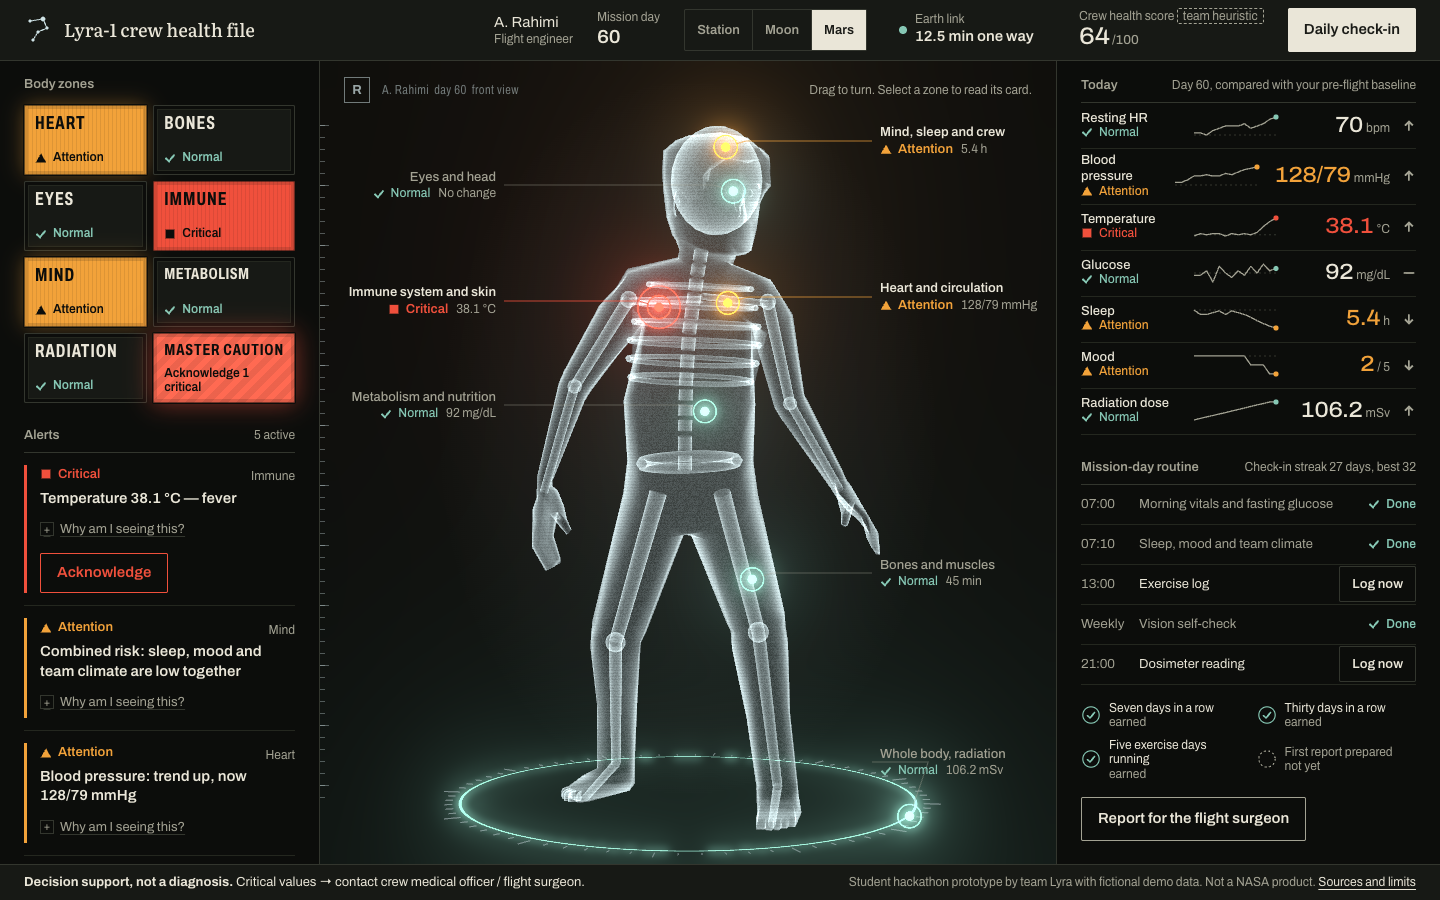
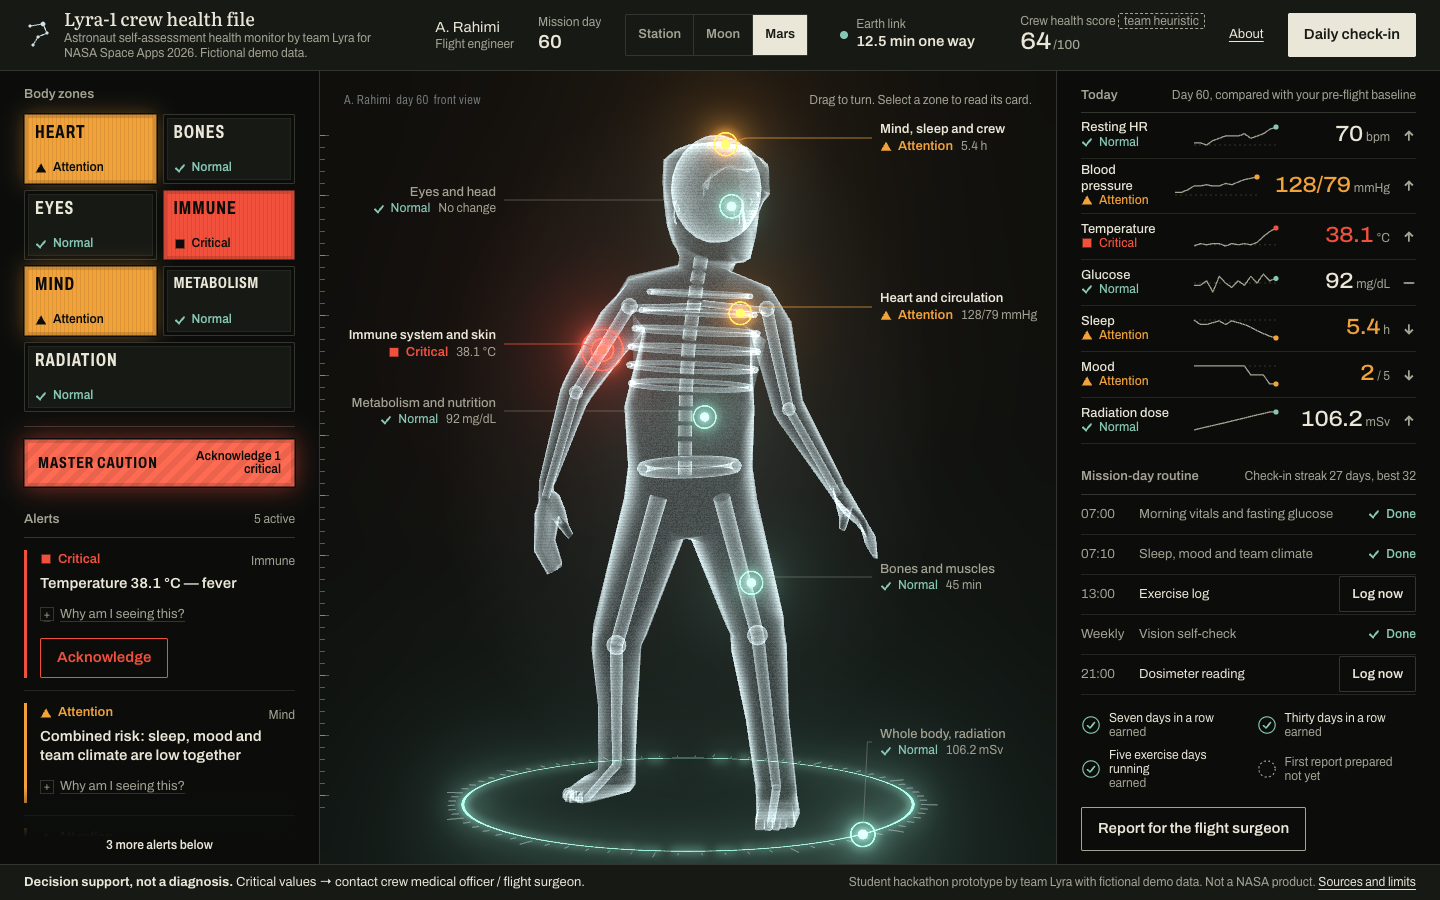
Polish round: anchors, context subtitle, scroll hints, Master Caution bar, env feedback, link preview

diff --git a/css/app.css b/css/app.css
@@ -59,6 +59,9 @@ small { font-size: var(--t-12); color: var(--ash); }
 .tb-file { display: flex; align-items: center; gap: var(--s-3); margin-right: auto; }
 .tb-mark { width: 28px; height: 28px; color: var(--film); flex: none; }
 .tb-file h1 { font: 500 var(--t-18)/1.2 var(--font-read); letter-spacing: -.005em; }
+.tb-sub { margin-top: 1px; font-size: var(--t-12); line-height: 1.3; color: var(--ash); max-width: 46ch; }
+.tb-about { font-size: var(--t-13); white-space: nowrap; }
+.tb-crew small, .tb-day small, .tb-score small { white-space: nowrap; }
 .tb-crew { line-height: 1.25; }
 .tb-day b { font-size: var(--t-18); font-stretch: 112%; }
 .env { display: flex; border: 1px solid var(--rule); border-radius: var(--radius); }
@@ -90,6 +93,12 @@ small { font-size: var(--t-12); color: var(--ash); }
 .alerts-head, .today-head { display: flex; align-items: baseline; justify-content: space-between; gap: var(--s-3); margin-top: var(--s-5); padding-bottom: var(--s-2); border-bottom: 1px solid var(--rule); }
 .today-head:first-child { margin-top: 0; }
 .count { font-size: var(--t-12); color: var(--ash); }
+
+.more { position: sticky; z-index: 2; bottom: 0; height: 0; pointer-events: none; opacity: 0; transition: opacity var(--d-hover) var(--ease-out); }
+.more.on { opacity: 1; }
+.more span { position: absolute; left: 0; right: 0; bottom: calc(-1 * var(--s-5)); display: flex; align-items: flex-end; justify-content: center; height: 76px; padding-bottom: 10px; font-size: var(--t-12); font-weight: 600; color: var(--bone); background: linear-gradient(rgba(12, 13, 11, 0), var(--lampblack) 64%); }
+.cue-body .more span { bottom: calc(-1 * var(--s-7)); color: var(--ink); background: linear-gradient(rgba(234, 230, 216, 0), var(--bone) 64%); }
+.booting .more { display: none; }
 
 /* annunciator lamps: dark cockpit — a lamp is lit only when it needs you */
 .lamps { display: grid; grid-template-columns: 1fr 1fr; gap: 6px; margin-top: var(--s-3); }
@@ -141,6 +150,11 @@ small { font-size: var(--t-12); color: var(--ash); }
 .master.lit[data-state="armed"]::after { box-shadow: 0 0 24px 0 rgba(240, 80, 60, .5); }
 .master.lit[data-state="acked"] { color: var(--alarm); box-shadow: inset 0 0 0 1px var(--alarm), inset 0 0 0 4px var(--lampblack), inset 0 0 0 5px var(--rule-soft); }
 .master[aria-disabled="true"] { cursor: default; }
+/* master caution is a control bar under the seven zone lamps, not an eighth zone */
+.lamps > li:nth-child(7) { grid-column: 1 / -1; }
+.lamps > li:last-child { grid-column: 1 / -1; margin-top: var(--s-2); padding-top: var(--s-3); border-top: 1px solid var(--rule); }
+.master { flex-direction: row; align-items: center; gap: var(--s-3); height: 48px; padding: 0 14px; }
+.master-sub { text-align: right; }
 
 /* alerts: a log, not cards */
 .alert { position: relative; padding: var(--s-3) 0 var(--s-3) var(--s-4); border-bottom: 1px solid var(--rule-soft); }
@@ -171,8 +185,7 @@ small { font-size: var(--t-12); color: var(--ash); }
 .body3d canvas:active { cursor: grabbing; }
 .film { z-index: 1; pointer-events: none; mix-blend-mode: screen;
   background: radial-gradient(ellipse 44% 58% at 50% 47%, rgba(207, 227, 230, .085), rgba(207, 227, 230, .02) 62%, transparent 78%); }
-.film-side { position: absolute; left: var(--s-5); top: var(--s-4); display: grid; place-items: center; width: 26px; height: 26px; border: 1px solid rgba(207, 227, 230, .5); color: rgba(207, 227, 230, .7); font-weight: 700; font-size: var(--t-13); }
-.film-id { position: absolute; left: 62px; top: 21px; font-size: var(--t-12); font-stretch: 80%; letter-spacing: .04em; color: rgba(207, 227, 230, .5); white-space: pre; }
+.film-id { position: absolute; left: var(--s-5); top: 21px; font-size: var(--t-12); font-stretch: 80%; letter-spacing: .04em; color: rgba(207, 227, 230, .5); white-space: pre; }
 .film-ruler { position: absolute; left: 0; top: 64px; bottom: 56px; width: 9px;
   background: repeating-linear-gradient(180deg, rgba(207, 227, 230, .34) 0 1px, transparent 1px 12px), repeating-linear-gradient(180deg, rgba(207, 227, 230, .34) 0 1px, transparent 1px 60px);
   background-size: 5px 100%, 9px 100%; background-repeat: no-repeat; }
@@ -255,8 +268,11 @@ small { font-size: var(--t-12); color: var(--ash); }
 .disclaimer-more { color: var(--ash); font-size: var(--t-12); }
 
 /* ---------- toast ---------- */
-.toast { position: fixed; z-index: 60; left: 50%; bottom: 64px; translate: -50% 0; max-width: min(520px, calc(100vw - 32px)); padding: var(--s-3) var(--s-4); background: var(--bone); color: var(--ink); font-size: var(--t-13); font-weight: 500; border-radius: var(--radius); opacity: 0; transform: translateY(8px); pointer-events: none; transition: opacity 200ms var(--ease-out), transform 200ms var(--ease-out); }
+.toast { position: fixed; z-index: 60; left: 50%; bottom: 64px; translate: -50% 0; width: max-content; max-width: min(520px, calc(100vw - 32px)); padding: var(--s-3) var(--s-4); background: var(--bone); color: var(--ink); font-size: var(--t-13); font-weight: 500; border-radius: var(--radius); opacity: 0; transform: translateY(8px); pointer-events: none; transition: opacity 200ms var(--ease-out), transform 200ms var(--ease-out); }
 .toast.on { opacity: 1; transform: none; }
+/* what an environment switch changed: one short flash on the link and the dose readouts */
+.changed { animation: changed 1.2s var(--ease-out); }
+@keyframes changed { from { background-color: rgba(234, 230, 216, .22); } to { background-color: rgba(234, 230, 216, 0); } }
 
 /* ---------- power-up: hide what the timeline will reveal ---------- */
 .booting .metric, .booting .alert, .booting .routine, .booting .badges, .booting .today-actions, .booting .callouts, .booting .leaders { opacity: 0; }
@@ -274,11 +290,14 @@ small { font-size: var(--t-12); color: var(--ash); }
   .deck { grid-template-columns: 1fr 1fr; overflow: visible; }
   .stage { grid-column: 1 / -1; grid-row: 1; height: min(64vh, 620px); border-bottom: 1px solid var(--rule); }
   .annun, .today { overflow: visible; }
+  .deck > section > .more { display: none; }
 }
 @media (max-width: 700px) {
   .topbar { flex-wrap: wrap; gap: var(--s-2) var(--s-3); padding: var(--s-2) var(--s-4); }
   .tb-file { flex: 1 1 100%; }
   .tb-file h1 { font-size: var(--t-15); }
+  .tb-sub { max-width: none; }
+  .tb-about { display: none; }
   .tb-day, .tb-score { min-width: 0; }
   .tb-score b { font-size: var(--t-18); }
   .tb-link { min-width: 0; padding: 0; margin-right: auto; }
@@ -309,7 +328,7 @@ small { font-size: var(--t-12); color: var(--ash); }
   .btn-ack { min-height: 44px; }
   .disclaimer .linklike { display: inline-flex; align-items: center; min-height: 44px; }
   .disclaimer { align-items: center; padding-top: 0 !important; padding-bottom: env(safe-area-inset-bottom) !important; }
-  .stage-hint { right: auto; left: 62px; top: 21px; }
+  .stage-hint { right: auto; left: var(--s-4); top: 21px; }
   .disclaimer-more span { display: none; }
   .disclaimer { flex-wrap: nowrap; }
   .disclaimer p { white-space: nowrap; }

diff --git a/js/main.js b/js/main.js
@@ -1,7 +1,7 @@
 // Main screen: annunciator, alerts, body stage, today's readouts, routine. No framework, no network.
 import { evaluate, INDICATORS, ZONE_IDS, TIER, TIER_WORD, lastValues, streak } from './rules.js';
 import * as store from './state.js';
-import { $, $$, esc, glyph, status, icon, spark, reduced, toast, stamp, ARROW_WORD } from './ui.js';
+import { $, $$, esc, glyph, status, icon, spark, reduced, toast, stamp, updateMore, ARROW_WORD } from './ui.js';
 import { createFigure } from './figure.js';
 import { createCue } from './cue.js';
 import { openCheckin } from './checkin.js';
@@ -175,6 +175,7 @@ function updateCallouts() {
 }
 const GAP = 58;
 function layoutCallouts(list) {
+  app.anchors = list;
   const stage = $('#stage'); const W = stage.clientWidth; const H = stage.clientHeight;
   if (W < 620) return; // phones: the lamp grid right below the body carries the labels
   const col = Math.min(W / 2 - 176, 300);
@@ -183,7 +184,7 @@ function layoutCallouts(list) {
     let prev = -Infinity;
     const lx0 = W / 2 + (side === 'l' ? -1 : 1) * col;
     // an anchor that sits under the label column gets its label lifted clear of it
-    const ys = items.map((a) => { const under = (side === 'l' ? lx0 - a.x : a.x - lx0) > -28; const y = Math.max(a.y - (under ? 54 : 6), prev + GAP, side === 'r' ? 66 : 30); prev = y; return y; });
+    const ys = items.map((a) => { const under = (side === 'l' ? lx0 - a.x : a.x - lx0) > -28; const y = Math.max(a.y - (a.id === 'whole' ? 92 : under ? 54 : 6), prev + GAP, side === 'r' ? 66 : 30); prev = y; return y; });
     const over = prev - (H - 62);
     if (over > 0) for (let i = ys.length - 1; i >= 0; i--) { ys[i] = Math.min(ys[i], H - 62 - (ys.length - 1 - i) * GAP); }
     items.forEach((a, i) => {
@@ -242,6 +243,7 @@ export function refresh(announce) {
   if (app.body) app.body.setStatuses(Object.fromEntries(ZONE_IDS.map((z) => [z, app.R.zones[z].tier])), unackedZones());
   if (app.selected) { app.cue.open(app.selected, app.cue.indicator, true); $$('.lamp').forEach((l) => l.toggleAttribute('aria-current', l.dataset.zone === app.selected)); }
   if (announce) $('#live').textContent = announce;
+  updateMore();
 }
 function acknowledge(ids) {
   ids.forEach((id) => { app.state.acks[id] = { day: app.R.day }; });
@@ -284,7 +286,7 @@ function wire() {
     (app.invoker && $(app.invoker) || $('#open-checkin')).focus();
   }));
   document.addEventListener('click', (e) => {
-    const t = e.target.closest('[data-open], [data-ack], [data-log], .lamp, #master, #link, #open-checkin, #open-report, #reset-demo, #open-about');
+    const t = e.target.closest('[data-open], [data-ack], [data-log], .lamp, #master, #link, #open-checkin, #open-report, #reset-demo, #open-about, [data-about]');
     if (!t) return;
     app.invoker = t.dataset.log ? `[data-log="${t.dataset.log}"]` : t.id ? `#${t.id}` : null;
     if (t.matches('.lamp')) return openZone(t.dataset.zone);
@@ -294,7 +296,7 @@ function wire() {
     if (t.dataset.log) return openCheckin(app, t.dataset.log);
     if (t.id === 'open-checkin') return openCheckin(app);
     if (t.id === 'open-report') return openReport(app);
-    if (t.id === 'open-about') return openAbout(app);
+    if (t.id === 'open-about' || t.hasAttribute('data-about')) return openAbout(app);
     if (t.id === 'link') {
       app.state.link = app.state.link === 'blackout' ? 'up' : 'blackout';
       const sent = app.state.link === 'up' ? flushQueue(app) : 0;
@@ -307,8 +309,11 @@ function wire() {
   });
   $('#env').addEventListener('change', (e) => {
     store.setEnv(app.state, e.target.value, app.T);
-    refresh(`Environment set to ${app.T.environments[app.state.env].long}.`);
+    refresh();
     $(`#env input[value="${app.state.env}"]`).focus();
+    const dose = app.R.indicators.radiation;
+    toast(`${app.T.environments[app.state.env].long}. Earth link: ${linkInfo().text.toLowerCase()}. Radiation dose: ${dose.display} ${dose.unit}.`);
+    for (const n of [$('#link'), $('.metric[data-ind="radiation"]')]) { n.classList.remove('changed'); n.getBoundingClientRect(); n.classList.add('changed'); }
   });
   const over = (e) => { const l = e.target.closest('.lamp, .callout, .metric, .alert'); if (l && (l.dataset.zone || l.dataset.open)) highlight(l.dataset.zone || l.dataset.open); };
   const out = (e) => { const l = e.target.closest('.lamp, .callout, .metric, .alert'); if (l) highlight(null); };
@@ -319,6 +324,8 @@ function wire() {
   }
   document.addEventListener('keydown', (e) => { if (e.key === 'Escape' && app.selected && !document.querySelector('dialog[open]')) { app.cue.close(); } });
   let rt = null;
+  document.addEventListener('scroll', updateMore, { capture: true, passive: true });
+  const mo = new ResizeObserver(updateMore); mo.observe($('.annun')); mo.observe($('#alerts'));
   window.addEventListener('resize', () => { clearTimeout(rt); rt = setTimeout(() => { if (app.selected && app.body) app.body.focus(app.selected, cueShift()); }, 150); });
 }
 

diff --git a/index.html b/index.html
@@ -7,7 +7,21 @@
 <meta name="description" content="Offline self-assessment health monitor for a crew member on a long mission. Team Lyra hackathon prototype. Decision support, not a diagnosis.">
 <meta name="theme-color" content="#0C0D0B">
 <link rel="manifest" href="manifest.json">
+<meta property="og:type" content="website">
+<meta property="og:title" content="Astronaut Self-Assessment Health Monitor, team Lyra">
+<meta property="og:description" content="A crew member far from Earth logs daily readings and sees seven body zones as Normal, Attention or Critical, with a source for every limit. Works offline. Team Lyra hackathon prototype with fictional demo data; decision support, not a diagnosis.">
+<meta property="og:url" content="https://osiyasadulloeva3-arch.github.io/lyra-health-monitor/">
+<meta property="og:image" content="https://osiyasadulloeva3-arch.github.io/lyra-health-monitor/docs/og-image.png">
+<meta property="og:image:width" content="1200">
+<meta property="og:image:height" content="630">
+<meta property="og:image:alt" content="Main screen: a translucent body figure with seven zone markers, zone lamps and alerts on the left, today's readings on the right.">
+<meta name="twitter:card" content="summary_large_image">
+<meta name="twitter:title" content="Astronaut Self-Assessment Health Monitor, team Lyra">
+<meta name="twitter:description" content="A crew member far from Earth logs daily readings and sees seven body zones as Normal, Attention or Critical, with a source for every limit. Works offline. Team Lyra hackathon prototype with fictional demo data; decision support, not a diagnosis.">
+<meta name="twitter:image" content="https://osiyasadulloeva3-arch.github.io/lyra-health-monitor/docs/og-image.png">
+<link rel="icon" href="assets/icon-192.png" type="image/png" sizes="192x192">
 <link rel="icon" href="assets/icon.svg" type="image/svg+xml">
+<link rel="apple-touch-icon" href="assets/icon-192.png">
 <link rel="preload" href="assets/fonts/Archivo-VF.woff2" as="font" type="font/woff2" crossorigin>
 <link rel="stylesheet" href="css/tokens.css">
 <link rel="stylesheet" href="css/app.css">
@@ -21,7 +35,10 @@
 <header class="topbar">
   <div class="tb-file">
     <svg class="tb-mark" viewBox="0 0 28 28" aria-hidden="true"><path d="M6 5 19 3 23 12 14 16 9 24" fill="none" stroke="currentColor" stroke-width="1"/><g fill="currentColor"><circle cx="6" cy="5" r="1.6"/><circle cx="19" cy="3" r="2.4"/><circle cx="23" cy="12" r="1.6"/><circle cx="14" cy="16" r="1.6"/><circle cx="9" cy="24" r="1.6"/></g></svg>
-    <h1><span id="tb-mission">Lyra-1</span> crew health file</h1>
+    <div>
+      <h1><span id="tb-mission">Lyra-1</span> crew health file</h1>
+      <p class="tb-sub">Astronaut self-assessment health monitor by team Lyra for NASA Space Apps 2026. Fictional demo data.</p>
+    </div>
   </div>
   <div class="tb-crew"><span id="tb-name">A. Rahimi</span><small id="tb-role">Flight engineer</small></div>
   <div class="tb-day"><small>Mission day</small><b id="tb-day">60</b></div>
@@ -33,6 +50,7 @@
   <div class="tb-score" id="score-box" title="Team heuristic: 100 minus 8 per Attention zone and 20 per Critical zone">
     <small>Crew health score <em class="stamp">team heuristic</em></small><b id="score">—</b>
   </div>
+  <button class="linklike tb-about" type="button" data-about>About</button>
   <button class="btn btn-solid" id="open-checkin" type="button">Daily check-in</button>
 </header>
 
@@ -45,11 +63,11 @@
       <span id="alerts-count" class="count"></span>
     </div>
     <ol class="alerts" id="alerts" aria-labelledby="h-alerts"></ol>
+    <div class="more" aria-hidden="true"><span></span></div>
   </section>
 
   <section class="stage" id="stage" aria-label="Body view">
     <div class="film" aria-hidden="true">
-      <span class="film-side">R</span>
       <span class="film-id" id="film-id"></span>
       <span class="film-ruler"></span>
     </div>

diff --git a/js/body3d.js b/js/body3d.js
@@ -191,12 +191,12 @@ export async function createBody(container, { zones, onHover, onSelect, onFrame 
   // ---------- zones: anchor (visible, blooms) + hit volumes (layer 2, raycast only) ----------
   const fz = (v, dz, dx = 0, dy = 0) => v.clone().add(new THREE.Vector3(dx, dy, dz));
   const defs = {
-    mind: { at: fz(lerp(headBase, headTop, 0.86), 0.03), bone: 'Head', r: headLen * 0.5, focusR: headLen * 0.75, dist: 1.9, hits: [[fz(lerp(headBase, headTop, 0.8), 0), 'Head', headLen * 0.42]] },
-    eyes: { at: fz(lerp(headBase, headTop, 0.42), headLen * 0.42), bone: 'Head', focusR: headLen * 0.55, dist: 1.9, hits: [[fz(lerp(headBase, headTop, 0.4), headLen * 0.3), 'Head', headLen * 0.34]] },
-    heart: { at: fz(lerp(P('Spine2'), P('Neck'), 0.45), 0.1, 0.045), bone: 'Spine2', focusR: 0.2, dist: 2.5, hits: [[fz(lerp(P('Spine2'), P('Neck'), 0.4), 0.05, 0.03), 'Spine2', 0.14]] },
+    mind: { at: fz(lerp(headBase, headTop, 0.97), 0.02), bone: 'Head', r: headLen * 0.5, focusR: headLen * 0.75, dist: 1.9, hits: [[fz(lerp(headBase, headTop, 0.8), 0), 'Head', headLen * 0.42]] },
+    eyes: { at: fz(lerp(headBase, headTop, 0.36), headLen * 0.42), bone: 'Head', focusR: headLen * 0.55, dist: 1.9, hits: [[fz(lerp(headBase, headTop, 0.4), headLen * 0.3), 'Head', headLen * 0.34]] },
+    heart: { at: fz(lerp(P('Spine2'), P('Neck'), 0.4), 0.1, 0.085), bone: 'Spine2', focusR: 0.2, dist: 2.5, hits: [[fz(lerp(P('Spine2'), P('Neck'), 0.4), 0.05, 0.03), 'Spine2', 0.14]] },
     metabolism: { at: fz(lerp(P('Spine'), P('Spine1'), 0.4), 0.1), bone: 'Spine', focusR: 0.2, dist: 2.5, hits: [[fz(lerp(P('Hips'), P('Spine1'), 0.6), 0.04), 'Spine', 0.14]] },
-    immune: { at: fz(lerp(P('Spine2'), P('RightArm'), 0.72), 0.08), bone: 'Spine2', focusR: 0.2, dist: 2.3,
-      hits: [[fz(lerp(P('Spine2'), P('RightArm'), 0.72), 0.04), 'Spine2', 0.09], ...['Left', 'Right'].flatMap((S) => [[lerp(P(S + 'ForeArm'), P(S + 'Hand'), 0.35), S + 'ForeArm', 0.075], [lerp(P(S + 'ForeArm'), P(S + 'Hand'), 1.05), S + 'ForeArm', 0.075]])] },
+    immune: { at: lerp(P('RightArm'), P('RightForeArm'), 0.5), bone: 'RightArm', focusR: 0.2, dist: 2.3,
+      hits: [[lerp(P('RightArm'), P('RightForeArm'), 0.5), 'RightArm', 0.085], ...['Left', 'Right'].flatMap((S) => [[lerp(P(S + 'ForeArm'), P(S + 'Hand'), 0.35), S + 'ForeArm', 0.075], [lerp(P(S + 'ForeArm'), P(S + 'Hand'), 1.05), S + 'ForeArm', 0.075]])] },
     bones: { at: fz(lerp(P('LeftUpLeg'), P('LeftLeg'), 0.62), 0.05), bone: 'LeftUpLeg', focusR: 0.3, dist: 2.8,
       hits: ['Left', 'Right'].flatMap((S) => [[lerp(P(S + 'UpLeg'), P(S + 'Leg'), 0.45), S + 'UpLeg', 0.1], [P(S + 'Leg'), S + 'Leg', 0.09], [lerp(P(S + 'Leg'), P(S + 'Foot'), 0.5), S + 'Leg', 0.08]]) },
     whole: { at: new THREE.Vector3(0.44, 0.012, 0.44), bone: null, focusR: 9, dist: HOME.dist, hits: [] },
@@ -349,6 +349,10 @@ export async function createBody(container, { zones, onHover, onSelect, onFrame 
     for (const id of zones) {
       const a = anchors[id];
       a.probe.getWorldPosition(a.pos);
+      if (id === 'whole') { // stays at the front right of the ring for the viewer, whatever the body's turn
+        floor.getWorldPosition(a.pos); const cx = camera.position.x - a.pos.x; const cz = camera.position.z - a.pos.z; const l = Math.hypot(cx, cz) || 1;
+        a.pos.x += 0.44 * (cx / l + cz / l); a.pos.z += 0.44 * (cz / l - cx / l); a.pos.y += 0.012;
+      }
       a.grp.position.copy(a.pos);
       a.grp.quaternion.copy(camera.quaternion);
       const active = id === hl.id || id === selected;

diff --git a/js/figure.js b/js/figure.js
@@ -1,7 +1,7 @@
 // Static 2D figure with the same seven zones. Used when WebGL is unavailable or the user prefers reduced motion.
 // Same API as body3d.js so main.js does not care which one it got.
 const NS = 'http://www.w3.org/2000/svg';
-const POS = { mind: [120, 36], eyes: [120, 58], heart: [131, 140], metabolism: [120, 214], immune: [82, 124], bones: [145, 342], whole: [212, 494] };
+const POS = { mind: [120, 24], eyes: [120, 66], heart: [136, 140], metabolism: [120, 214], immune: [66, 152], bones: [145, 342], whole: [212, 494] };
 const OUTLINE = 'M120 22C138 22 147 36 146 54C145 68 138 80 131 84L131 94C150 98 166 102 172 114C178 128 180 160 184 190L192 250C194 262 190 268 184 266C178 264 176 256 175 248L164 190L158 150L156 210C156 232 160 250 160 276L156 370L152 462L164 480C166 485 163 487 158 487L134 487L132 462L126 370L120 290L114 370L108 462L106 487L82 487C77 487 74 485 76 480L88 462L84 370L80 276C80 250 84 232 84 210L82 150L76 190L65 248C64 256 62 264 56 266C50 268 46 262 48 250L56 190C60 160 62 128 68 114C74 102 90 98 109 94L109 84C102 80 95 68 94 54C93 36 102 22 120 22Z';
 const BONES = 'M120 96V258M96 118Q120 108 144 118M94 136Q120 126 146 136M94 154Q120 144 146 154M96 172Q120 163 144 172M98 190Q120 182 142 190M92 262Q120 244 148 262Q120 282 92 262M72 116L60 190L56 252M168 116L180 190L184 252M102 276L98 370L96 462M138 276L142 370L144 462';
 

diff --git a/js/cue.js b/js/cue.js
@@ -1,7 +1,7 @@
 // Zone card: the reading surface. Paper cue card that slides over the right side of the deck.
 import { INDICATORS, SYMPTOMS, TIER, TIER_WORD } from './rules.js';
 import * as store from './state.js';
-import { $, $$, esc, glyph, status, icon, stamp, ARROW_WORD } from './ui.js';
+import { $, $$, esc, glyph, status, icon, stamp, updateMore, ARROW_WORD } from './ui.js';
 import { chartSpec, renderChart } from './charts.js';
 import { openCheckin } from './checkin.js';
 import { openReport } from './report.js';
@@ -103,8 +103,10 @@ export function createCue(app, { onClose }) {
           ${TIER[zone.tier] >= TIER.attention ? '<button class="btn btn-ink" type="button" data-cue-report>Prepare report for the flight surgeon</button>' : ''}
           <button class="btn btn-inkline" type="button" data-cue-log="">Log a new reading</button>
         </div>
+      <div class="more" aria-hidden="true"><span></span></div>
       </div></div>`;
     if (scroll) el.querySelector('.cue-body').scrollTop = scroll;
+    updateMore();
     drawChart();
   }
 

diff --git a/js/ui.js b/js/ui.js
@@ -53,5 +53,17 @@ export function toast(msg) {
   clearTimeout(toastTimer); toastTimer = setTimeout(() => t.classList.remove('on'), 3200);
 }
 
+// scroll hint: a bottom fade and a count while a scrolling column still hides content
+export function updateMore() {
+  for (const m of $$('.more')) {
+    const box = m.parentElement;
+    const on = box.scrollHeight - box.scrollTop - box.clientHeight > 12;
+    m.classList.toggle('on', on);
+    if (!on) continue;
+    const edge = box.getBoundingClientRect().bottom - 64;
+    const n = $$('.alert', box).filter((a) => a.getBoundingClientRect().top > edge).length;
+    m.firstElementChild.textContent = n ? `${n} more alert${n > 1 ? 's' : ''} below` : 'More below';
+  }
+}
 export const STAMP = { 'team-heuristic': 'team heuristic', placeholder: 'placeholder — not verified' };
 export const stamp = (k) => (STAMP[k] ? `<em class="stamp" data-k="${k}">${STAMP[k]}</em>` : '');

diff --git a/sw.js b/sw.js
@@ -1,11 +1,12 @@
 // Service worker: precaches every file of the app so it runs with no network after the first load.
 // The list below is generated by `node tools/gen-sw.mjs`. Nothing outside this origin is ever requested.
-const VERSION = 'lyra-bfab534a2e';
+const VERSION = 'lyra-7cdf407bec';
 const FILES = [
   './assets/fonts/Archivo-OFL.txt',
   './assets/fonts/Archivo-VF.woff2',
   './assets/fonts/Literata-OFL.txt',
   './assets/fonts/Literata-VF.woff2',
+  './assets/icon-192.png',
   './assets/icon.svg',
   './assets/models/human.glb',
   './css/app.css',

diff --git a/README.md b/README.md
@@ -1,5 +1,19 @@
 # Astronaut Self-Assessment Health Monitor
 
+**Live demo:** https://osiyasadulloeva3-arch.github.io/lyra-health-monitor/
+
+![Main screen: a body figure with seven zone markers, zone lamps and alerts on the left, today's readings on the right](docs/screenshots/main-1440.png)
+
+## What it does
+
+- A crew member far from Earth types in a few daily readings: pulse, blood pressure, temperature, glucose, sleep, mood, radiation dose.
+- The app compares each reading with a sourced reference range and with the crew member's own pre-flight baseline.
+- Seven body zones on a 3D figure show Normal, Attention or Critical, always as colour, icon and word together.
+- Every alert says why it fired, what to do next, and where its limit comes from.
+- A report for the flight surgeon (PDF and JSON) waits in a queue while the link to Earth is down; the whole app works offline.
+
+## About
+
 Team Lyra's prototype for NASA Space Apps Challenge 2026 (Dushanbe). A crew member far from Earth types in a few
 daily readings; the app compares them with sourced reference ranges and with their own pre-flight baseline, shows
 seven body zones as Normal / Attention / Critical, and prepares a report for the flight surgeon that can wait in a
